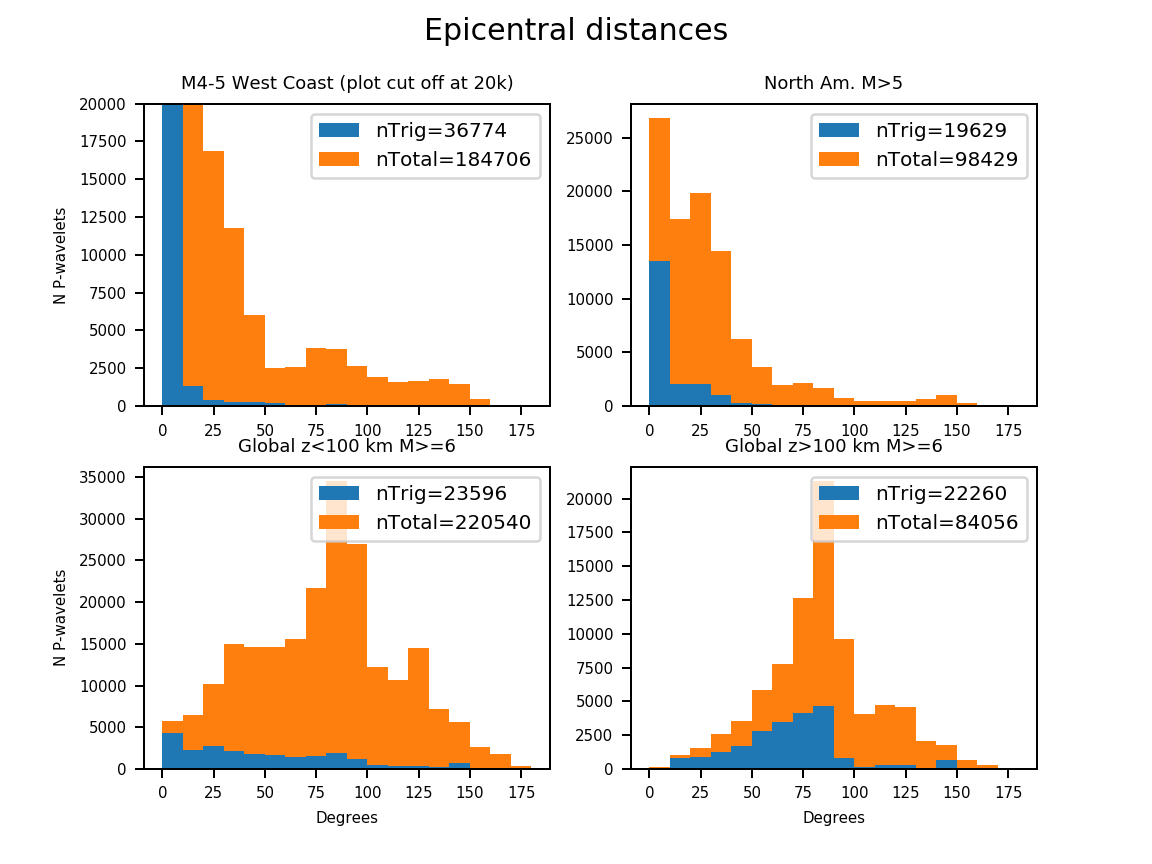
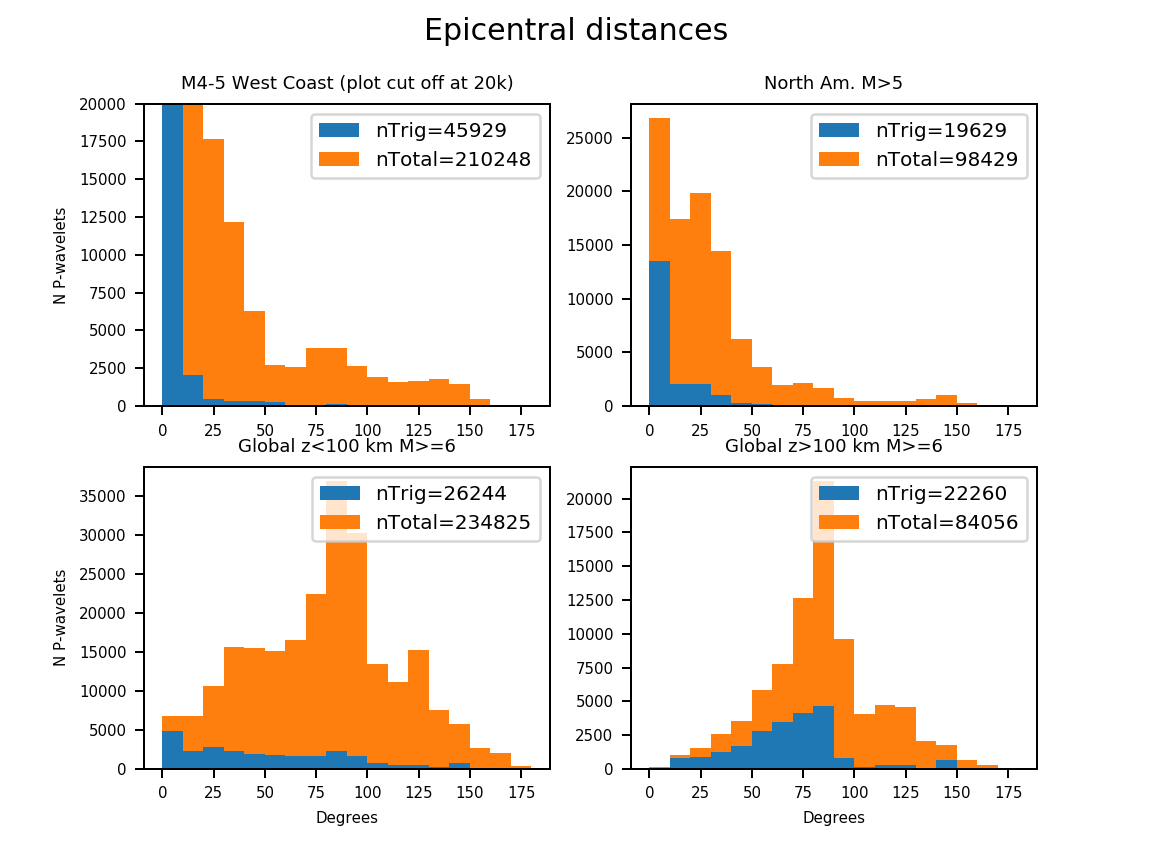
direct not depth phases, updated figs

diff --git a/create_TT_table.py b/create_TT_table.py
@@ -33,11 +33,14 @@ for idist in range(0,181):
     for depth in depths:
         arrivals = []
         if ( dist < 95. ):
-            arrivals = model.get_travel_times(source_depth_in_km=depth,distance_in_degree=dist,phase_list=["pP","sP"])
+            arrivals = model.get_travel_times(source_depth_in_km=depth,distance_in_degree=dist,phase_list=["P"])
+#            arrivals = model.get_travel_times(source_depth_in_km=depth,distance_in_degree=dist,phase_list=["pP","sP"])
         elif ( dist >= 95. and dist < 115. ):
-            arrivals = model.get_travel_times(source_depth_in_km=depth,distance_in_degree=dist,phase_list=["pP","pPdiff","sP","sPdiff"])
+            arrivals = model.get_travel_times(source_depth_in_km=depth,distance_in_degree=dist,phase_list=["P","Pdiff"])
+#            arrivals = model.get_travel_times(source_depth_in_km=depth,distance_in_degree=dist,phase_list=["pP","pPdiff","sP","sPdiff"])
         else:
-            arrivals = model.get_travel_times(source_depth_in_km=depth,distance_in_degree=dist,phase_list=["pPKP","pPKIKP","sPKP","sPKIKP"])
+            arrivals = model.get_travel_times(source_depth_in_km=depth,distance_in_degree=dist,phase_list=["PKP","PKIKP"])
+#            arrivals = model.get_travel_times(source_depth_in_km=depth,distance_in_degree=dist,phase_list=["pPKP","pPKIKP","sPKP","sPKIKP"])
         TT = 9e9
         for iTT in range(0,len(arrivals)):
             if ( arrivals[iTT].time < TT ):
